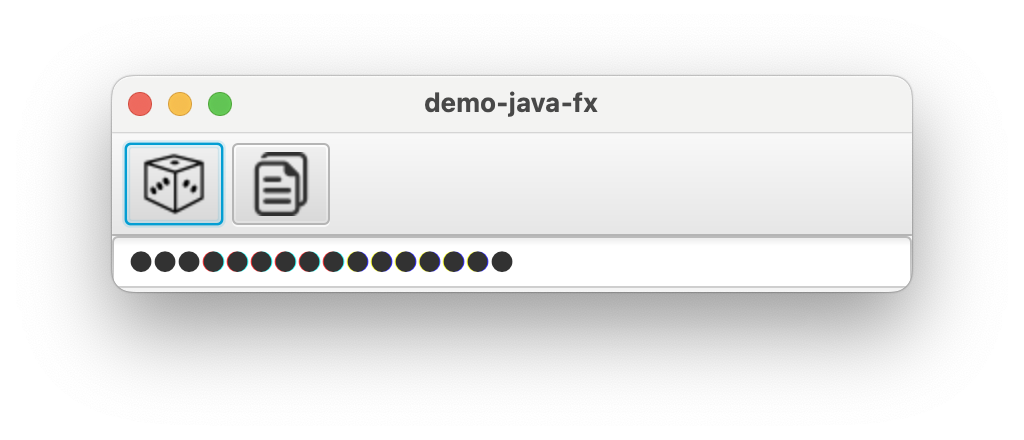
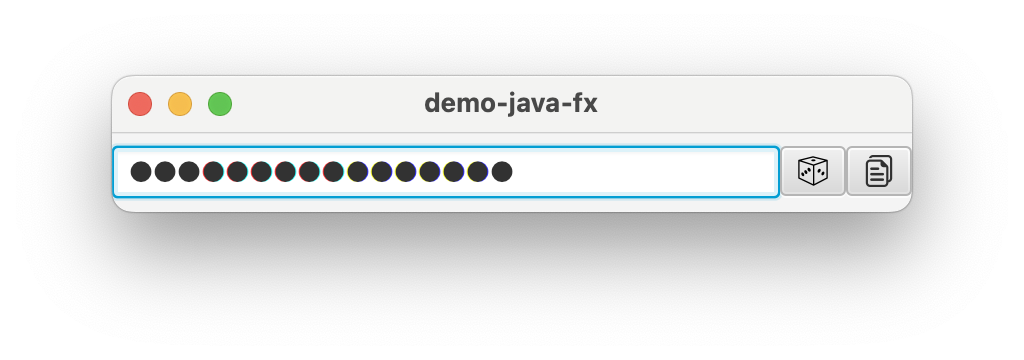
Change layout

Changed region(s): [[0.0938, 0.1833, 0.9062, 0.7333], [0.4062, 0.1833, 0.5938, 0.3361]]

diff --git a/src/main/java/com/example/demojavafx/HelloApplication.java b/src/main/java/com/example/demojavafx/HelloApplication.java
@@ -11,7 +11,7 @@ public class HelloApplication extends Application {
     @Override
     public void start(Stage stage) throws IOException {
         FXMLLoader fxmlLoader = new FXMLLoader(HelloApplication.class.getResource("hello-view.fxml"));
-        Scene scene = new Scene(fxmlLoader.load(), 400, 80);
+        Scene scene = new Scene(fxmlLoader.load(), 400, 40);
         stage.setTitle("demo-java-fx");
         stage.setScene(scene);
         stage.show();
